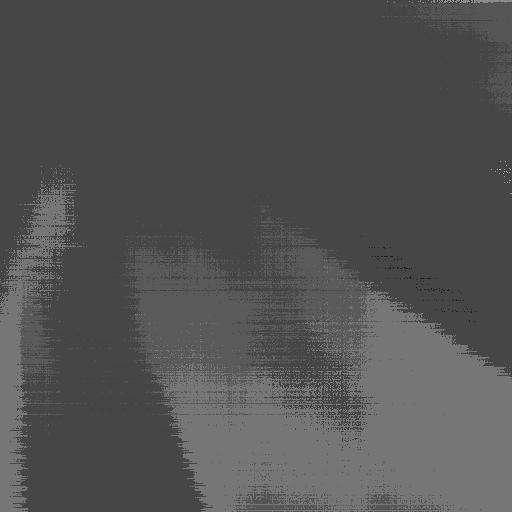
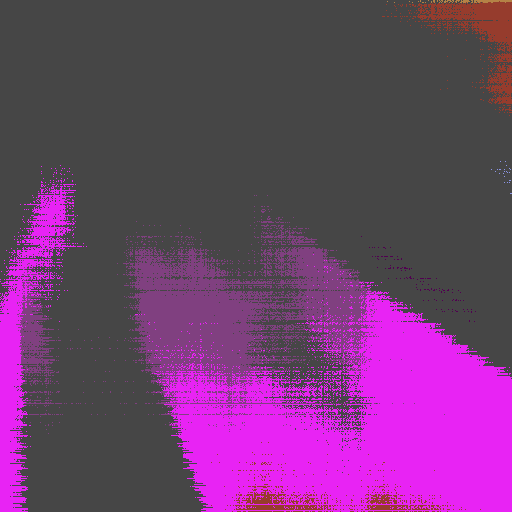
need to conduct another netwok

diff --git a/Comple_based_onINR_singleimgae.py b/Comple_based_onINR_singleimgae.py
@@ -211,7 +211,7 @@ def train(img_path, mask_path, n_class, checkpoints_dir, continue_traning = Fals
     state = OrderedDict()
 
     if continue_traning:
-        to_load = torch.load("./checkpoints/checkpoint_8.pth")
+        to_load = torch.load("./checkpoints/checkpoint_6.pth")
         start = to_load["epoch"]
         net.load_state_dict(to_load["net"], strict=False)
     print(len(train_dataloader))
@@ -226,10 +226,11 @@ def train(img_path, mask_path, n_class, checkpoints_dir, continue_traning = Fals
             loss = Loss(result,gt.long())    ###B C , B
             loss.backward()
             loss_epoch.append(loss.item())
-            # print(result.shape)
-            # result = F.softmax(result, dim=1)
-            # result = torch.argmax(result, dim=1)
-            # print(gt)
+            print(result.shape)
+            result = F.softmax(result, dim=1)
+            result = torch.argmax(result, dim=1)
+            print(result)
+            print(gt)
             print("epoch_{}/iter_{}: {}".format(i, index, loss.item()))
             optimizer.step()
 
@@ -269,11 +270,7 @@ def test(n_class, checkpoint):
         for y in range(512):
             result_color[x,y,:] = carla[img[x,y],:]
 
-    Image.fromarray(result_color).convert("L").save("./result_color.png")
-
-
-
-    print(img.shape)
+    Image.fromarray(result_color).save("./result_color.png")
 
 
 if __name__ == "__main__":
@@ -286,7 +283,7 @@ if __name__ == "__main__":
 
     checkpoints_dir = "./checkpoints"
     n_class = 20
-    # train("./imgs/img.png", "./imgs/row_mask.png", n_class, checkpoints_dir, continue_traning=False)
+    # train("./imgs/img.png", "./imgs/row_mask.png", n_class, checkpoints_dir, continue_traning=True)
     test(n_class, checkpoint = "checkpoint_6.pth")
 
 
